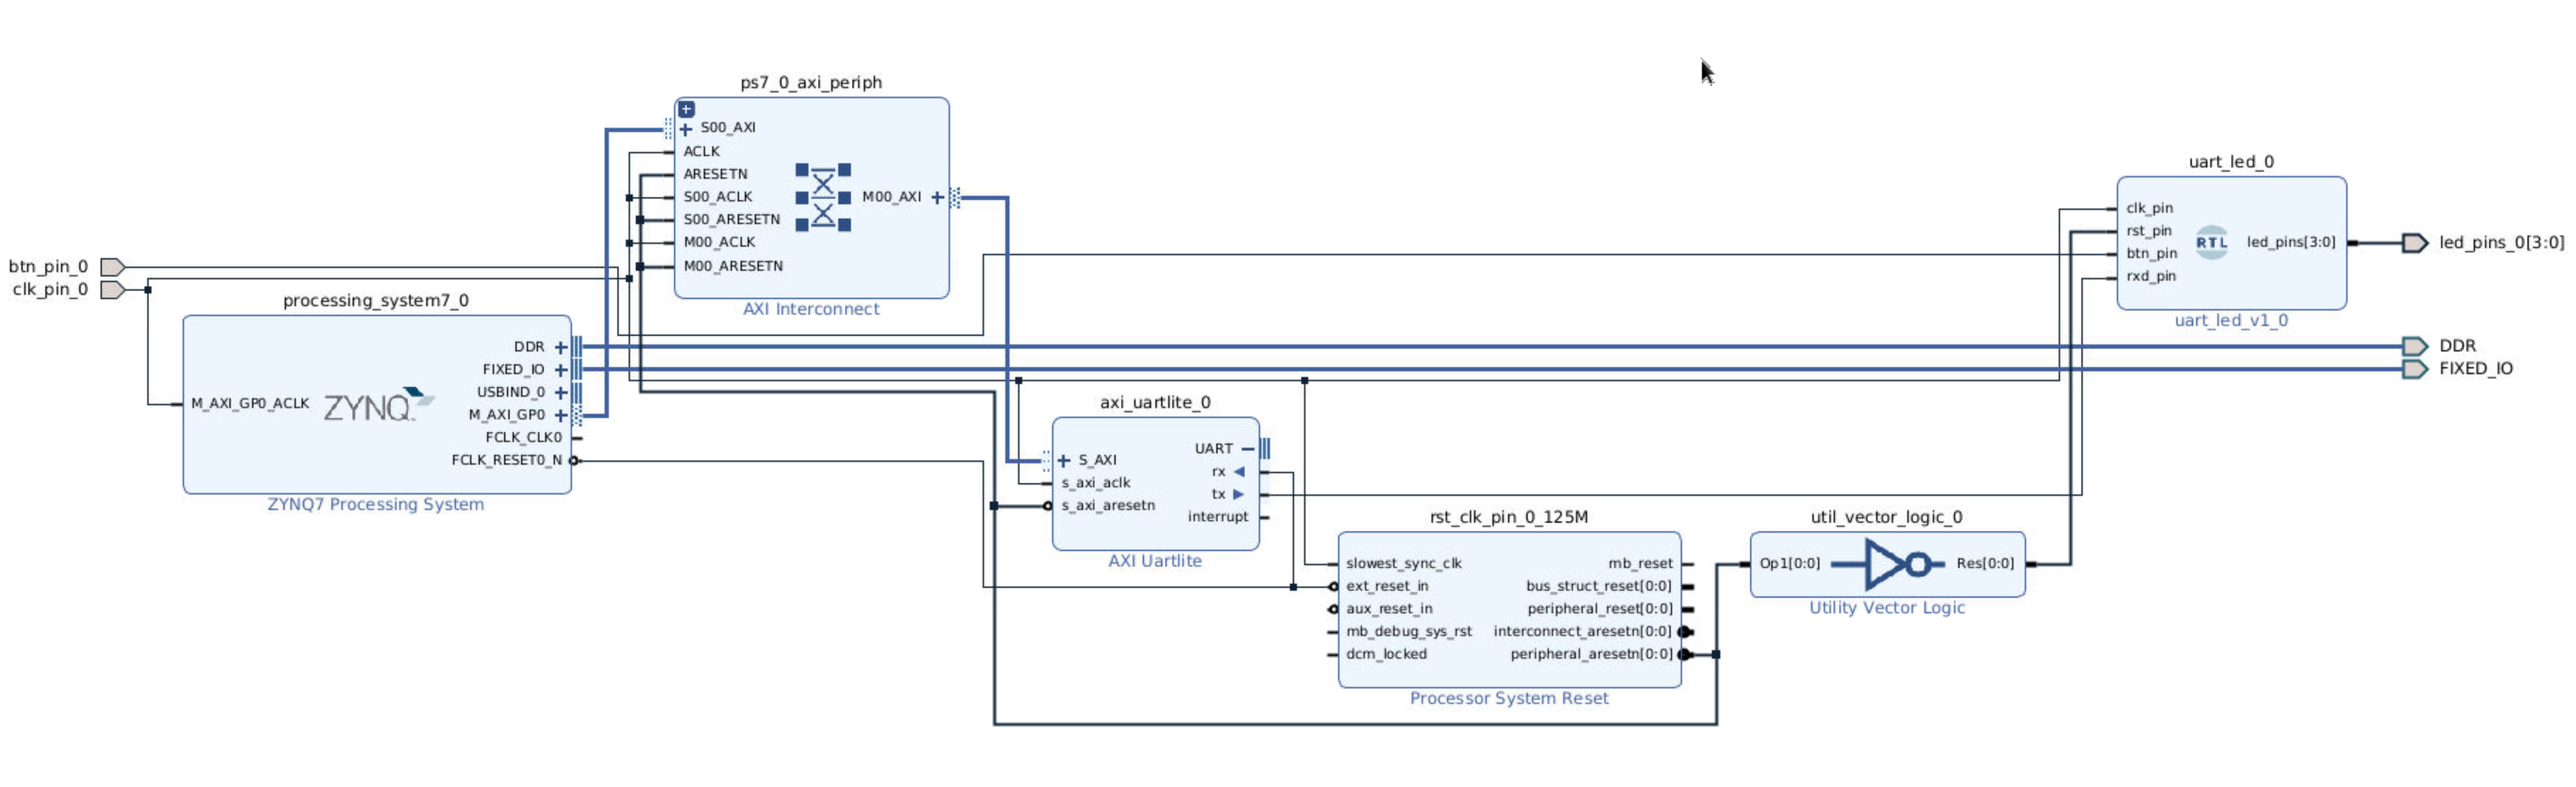
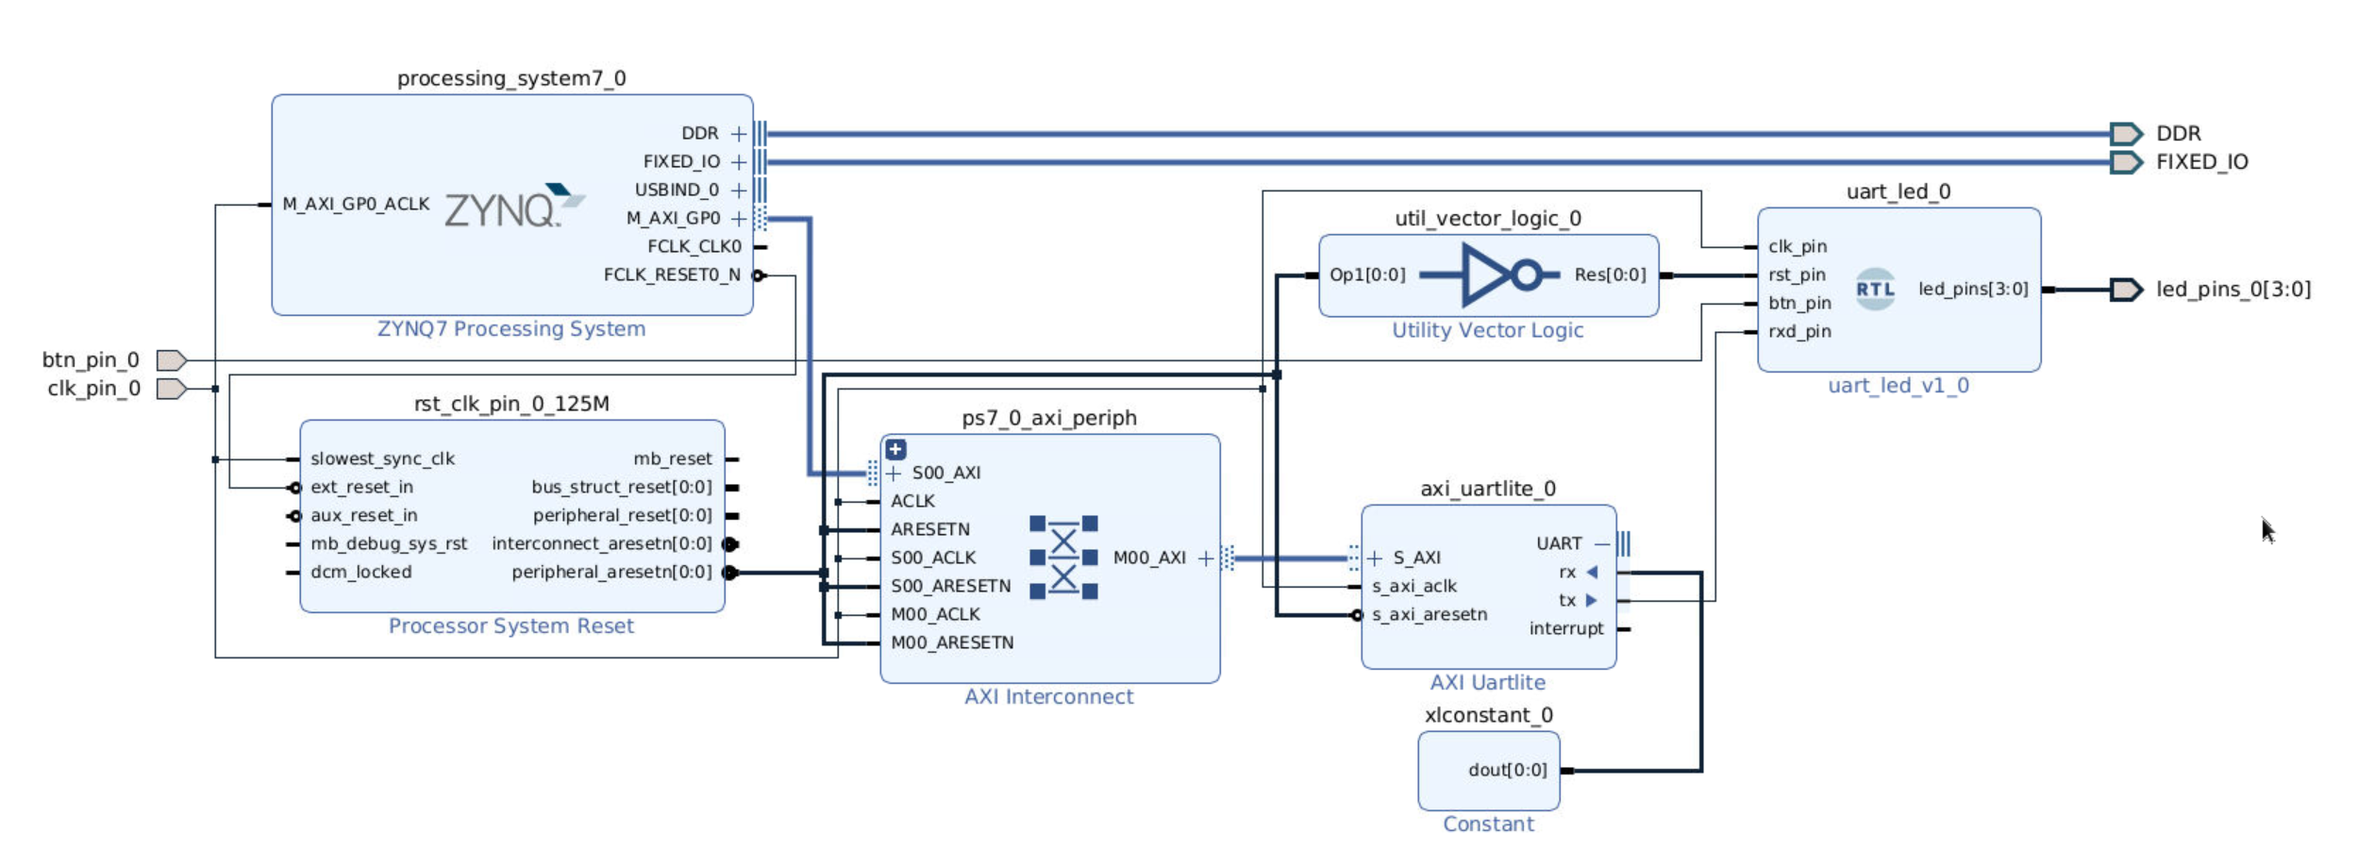
09/26

Changed region(s): [[0.0, 0.0624, 0.9988, 0.9664], [0.9364, 0.5923, 0.9676, 0.6235]]

diff --git a/docs/Labs/Lab2.md b/docs/Labs/Lab2.md
@@ -298,7 +298,8 @@ A Create New Run dialog box will appear asking you if a new run should be create
 
 <div align=center><img src="imgs/2_31.png" alt="drawing" width="600"/></div>
 
-* Back to *Diagram* window, add `axi uartlite` module. Double click this module, and config it as the following figure.
+* Back to *Diagram* window, add `axi uartlite` module. We want to send data to the uart_led module through its `rx` port. To do this, we will use the UART from Ps, which is connected to the ARM core by the AXI protocal. Then, we will connect the tx port of the UART to the uart_led module in PL. Double click this module, and config it as the following figure. In order to provent the `rx` port of `AXI Uartlite` from hanging, add `1` to the `rx` port (making it always IDLE). We don't need to consider other ports, like `interrupt` of `AXI Uartlite`, because this port is the output port.
+
 
 <div align=center><img src="imgs/2_28.png" alt="drawing" width="600"/></div>
 
@@ -314,8 +315,7 @@ A Create New Run dialog box will appear asking you if a new run should be create
 
 * Expand `UART` in the `axi_uartlite` module, and connect `tx` to `rxd_pin` port of `uart_led` module. Connect `rx` to the `FCLK_RESET0_N` of `ZYNQ7 Processing System`.
 
-* Click `Run Connection Automation` and `Run Block Automation`, remember that don't choose UART, then click *OK*. In order to provent the `rx` port of `AXI Uartlite` from hanging, connect the `rx` and the `FCLK_RESET0_N` of `ZYNQ& PROCESSING SYSTEM`. We need to consider other ports, like `interrupt` of `AXI Uartlite`, because this port is the output port.
-
+* Click `Run Connection Automation` and `Run Block Automation`, remember that don't choose UART, then click *OK*. 
 
 <div align=center><img src="imgs/2_22.png" alt="drawing" width="600"/></div>
 
